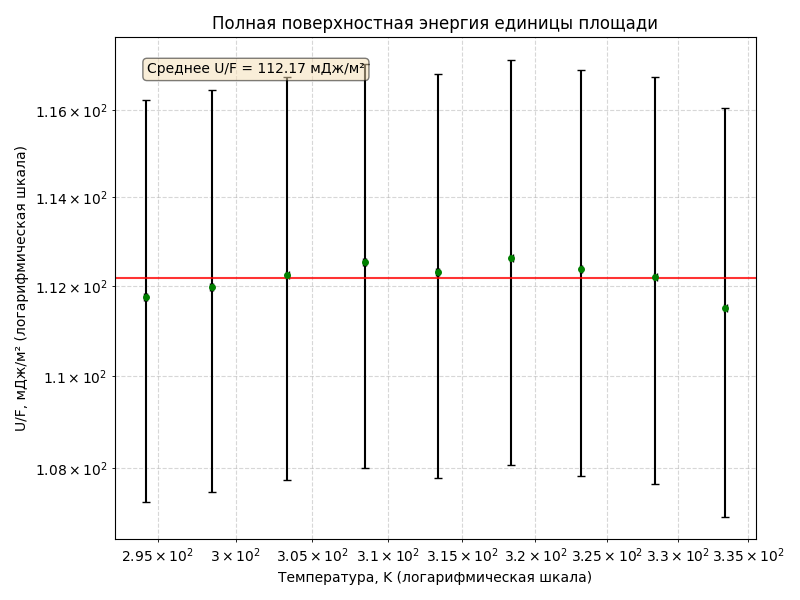
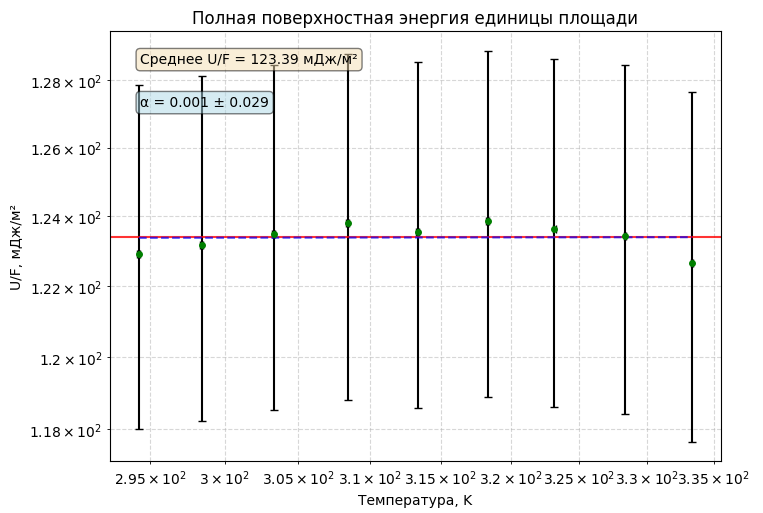
update 251

diff --git a/251/251-4.py b/251/251-4.py
@@ -11,7 +11,7 @@ p_meas = [417.3, 415.6, 413.7, 411.7, 407.8, 405.9, 402.0, 398.1, 392.2]
 P = [x - pgh for x in p_meas]                         # Лапласовское давление, Па
 t = [21.1, 25.3, 30.2, 35.3, 40.2, 45.2, 50.0, 55.2, 60.2]
 T = np.array([x + 273.15 for x in t])                 # K
-R = 0.0005                                             # м
+R = 0.00055                                             # м
 sigma = np.array([(x * R) / 2 for x in P])            # Н/м
 sigma_err = 0.05 * sigma
 T_err = 0.1 * np.ones_like(T)
@@ -102,8 +102,8 @@ plt.text(0.05, 0.85, f'α = {alpha:.3f} ± {d_alpha:.3f}',
 
 # Сетка
 plt.grid(True, which='both', linestyle='--', alpha=0.5)
-plt.xlabel('Температура, K (логарифмическая шкала)')
-plt.ylabel('U/F, мДж/м² (логарифмическая шкала)')
+plt.xlabel('Температура, K')
+plt.ylabel('U/F, мДж/м²')
 plt.title('Полная поверхностная энергия единицы площади')
 plt.tight_layout()
 plt.show()
